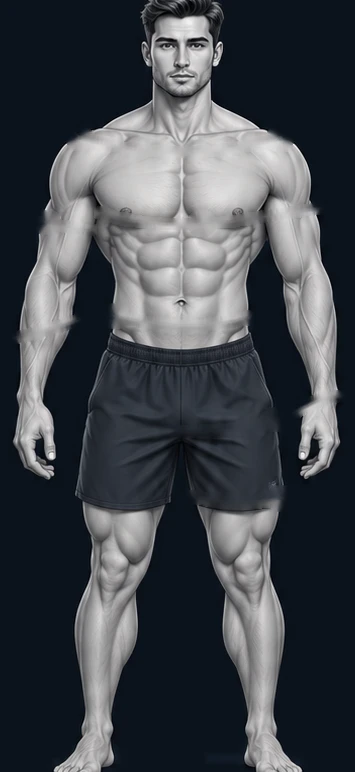
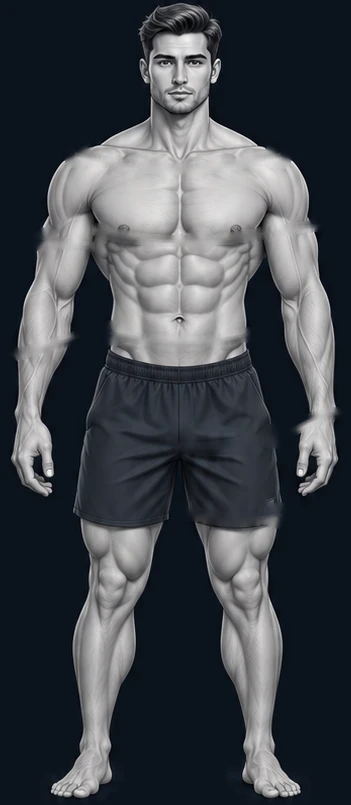
0.9.6: whole figures in the measurements block, scaled to the phone
- Figures recut from the reference screens head to feet (the previous crop clipped hair and feet)
- Figure height: up to 400 dp, smaller on narrow phones so both callout columns keep their width
- Tape positions recomputed for the new crops

Claude-Session: https://claude.ai/code/session_014pom2DdkZCLqE4n9czZg2V

diff --git a/app/src/main/java/com/fitclub/tracker/domain/BodyModel.kt b/app/src/main/java/com/fitclub/tracker/domain/BodyModel.kt
@@ -70,18 +70,19 @@ data class BodyFigure(val asset: String, val width: Float, val height: Float, va
             BodyFigure(asset, w, h, rows.map { (m, g) -> FigureBand(m, g.first, g.second, g.third, m in right) })
 
         private val MALE_RIGHT = setOf(BodyMetric.CHEST, BodyMetric.HIPS, BodyMetric.THIGH)
-        val MALE_LIGHT = figure("male_light", 358f, 810f, MALE_RIGHT,
-            BodyMetric.SHOULDERS to Triple(141f, 186f, 97f), BodyMetric.CHEST to Triple(231f, 181f, 80f), BodyMetric.ARM to Triple(234f, 75f, 18f),
-            BodyMetric.WAIST to Triple(326f, 182f, 67f), BodyMetric.HIPS to Triple(431f, 182f, 90f), BodyMetric.THIGH to Triple(506f, 230f, 41f))
-        val MALE_DARK = figure("male_dark", 355f, 772f, MALE_RIGHT,
-            BodyMetric.SHOULDERS to Triple(142f, 180f, 100f), BodyMetric.CHEST to Triple(220f, 181f, 80f), BodyMetric.ARM to Triple(225f, 70f, 20f),
-            BodyMetric.WAIST to Triple(318f, 183f, 67f), BodyMetric.HIPS to Triple(425f, 180f, 90f), BodyMetric.THIGH to Triple(498f, 236f, 44f))
-        val FEMALE_DARK = figure("female_dark", 304f, 778f, setOf(BodyMetric.CHEST, BodyMetric.WAIST, BodyMetric.THIGH),
-            BodyMetric.SHOULDERS to Triple(149f, 154f, 70f), BodyMetric.CHEST to Triple(219f, 157f, 55f), BodyMetric.ARM to Triple(236f, 70f, 16f),
-            BodyMetric.WAIST to Triple(315f, 151f, 50f), BodyMetric.HIPS to Triple(409f, 157f, 78f), BodyMetric.THIGH to Triple(473f, 198f, 33f))
-        val FEMALE_LIGHT = figure("female_light", 332f, 828f, setOf(BodyMetric.SHOULDERS, BodyMetric.ARM, BodyMetric.THIGH),
-            BodyMetric.SHOULDERS to Triple(168f, 166f, 68f), BodyMetric.CHEST to Triple(248f, 172f, 63f), BodyMetric.ARM to Triple(266f, 255f, 18f),
-            BodyMetric.WAIST to Triple(354f, 167f, 55f), BodyMetric.HIPS to Triple(446f, 167f, 85f), BodyMetric.THIGH to Triple(516f, 214f, 39f))
+        // Cut whole, from the top of the hair to the soles, so the full figure always fits its card.
+        val MALE_LIGHT = figure("male_light", 354f, 844f, MALE_RIGHT,
+            BodyMetric.SHOULDERS to Triple(158f, 184f, 97f), BodyMetric.CHEST to Triple(248f, 179f, 80f), BodyMetric.ARM to Triple(251f, 73f, 18f),
+            BodyMetric.WAIST to Triple(343f, 180f, 67f), BodyMetric.HIPS to Triple(448f, 180f, 90f), BodyMetric.THIGH to Triple(523f, 228f, 41f))
+        val MALE_DARK = figure("male_dark", 351f, 805f, MALE_RIGHT,
+            BodyMetric.SHOULDERS to Triple(159f, 178f, 100f), BodyMetric.CHEST to Triple(237f, 179f, 80f), BodyMetric.ARM to Triple(242f, 68f, 20f),
+            BodyMetric.WAIST to Triple(335f, 181f, 67f), BodyMetric.HIPS to Triple(442f, 178f, 90f), BodyMetric.THIGH to Triple(515f, 234f, 44f))
+        val FEMALE_DARK = figure("female_dark", 300f, 810f, setOf(BodyMetric.CHEST, BodyMetric.WAIST, BodyMetric.THIGH),
+            BodyMetric.SHOULDERS to Triple(167f, 152f, 70f), BodyMetric.CHEST to Triple(237f, 155f, 55f), BodyMetric.ARM to Triple(254f, 68f, 16f),
+            BodyMetric.WAIST to Triple(333f, 149f, 50f), BodyMetric.HIPS to Triple(427f, 155f, 78f), BodyMetric.THIGH to Triple(491f, 196f, 33f))
+        val FEMALE_LIGHT = figure("female_light", 328f, 861f, setOf(BodyMetric.SHOULDERS, BodyMetric.ARM, BodyMetric.THIGH),
+            BodyMetric.SHOULDERS to Triple(186f, 164f, 68f), BodyMetric.CHEST to Triple(266f, 170f, 63f), BodyMetric.ARM to Triple(284f, 253f, 18f),
+            BodyMetric.WAIST to Triple(372f, 165f, 55f), BodyMetric.HIPS to Triple(464f, 165f, 85f), BodyMetric.THIGH to Triple(534f, 212f, 39f))
 
         fun of(female: Boolean, dark: Boolean) = when {
             female && dark -> FEMALE_DARK
@@ -161,3 +162,10 @@ fun railTops(wanted: List<Float>, labelHeight: Float, limit: Float): List<Float>
 /** Snap a stepper value to its grid so 0.1 + 0.2 never shows as 0,30000001. */
 fun snapMeasure(metric: BodyMetric, v: Float): Float =
     ((v / metric.step).roundToInt() * metric.step * 10).roundToInt().div(10f).coerceIn(metric.minValue, metric.maxValue)
+
+/**
+ * Height of the figure in its card: the whole figure always fits, up to [maxHeight]; a narrow
+ * card scales it down so the callout columns of [labelWidth] on both sides keep their width.
+ */
+fun figureHeight(figure: BodyFigure, cardWidth: Float, labelWidth: Float = 86f, maxHeight: Float = 400f): Float =
+    minOf(maxHeight, ((cardWidth - 2 * labelWidth) / figure.aspect).coerceAtLeast(0f))

diff --git a/app/src/main/java/com/fitclub/tracker/ui/profile/BodyModelUi.kt b/app/src/main/java/com/fitclub/tracker/ui/profile/BodyModelUi.kt
@@ -109,7 +109,7 @@ private fun tapeColors(): BlockColors = blockColors()
 
 /** Background the figure was drawn on, so the picture blends into its card. */
 private fun figureBackground(figure: BodyFigure): Color = when (figure.asset) {
-    "female_dark" -> Color(0xFF0F1721)
+    "female_dark" -> Color(0xFF0F1821)
     "male_dark" -> Color(0xFF0B121B)
     else -> Color(0xFFFDFDFE)
 }
@@ -207,13 +207,13 @@ private fun FigureCard(figure: BodyFigure, colors: BlockColors, series: Map<Body
         Modifier.fillMaxWidth().clip(RoundedCornerShape(22.dp)).background(bg).border(1.dp, colors.line, RoundedCornerShape(22.dp))
     ) {
         val cardW = maxWidth
-        val imgH = min(372.dp, cardW * 1.04f)
+        val labelW = 80.dp
+        val imgH = figureHeight(figure, cardW.value, labelWidth = labelW.value + 6f).dp
         val imgW = imgH * figure.aspect
         val imgLeft = (cardW - imgW) / 2
-        val imgTop = 8.dp
-        val cardH = imgH + 16.dp
+        val imgTop = 10.dp
+        val cardH = imgH + 20.dp
         val scale = imgH.value / figure.height
-        val labelW = 82.dp
         val gap = 46f * fontScale
 
         val tops = remember(figure, imgH, fontScale) {

diff --git a/app/src/test/java/com/fitclub/tracker/domain/BodyModelTest.kt b/app/src/test/java/com/fitclub/tracker/domain/BodyModelTest.kt
@@ -52,6 +52,17 @@ class BodyModelTest {
         assertEquals(false, periodChange(BodyMetric.HIPS, listOf(97f, 98f))!!.good)
     }
 
+    @Test fun wholeFigureFitsTheCardOnEveryPhoneWidth() {
+        for (figure in BodyFigure.ALL) for (card in listOf(288f, 328f, 358f, 380f)) {
+            val h = figureHeight(figure, card)
+            assertTrue(h <= 400f)
+            // The figure plus both callout columns never exceed the card.
+            assertTrue("${figure.asset} @ $card", h * figure.aspect + 2 * 86f <= card + 0.01f)
+        }
+        assertEquals(400f, figureHeight(BodyFigure.MALE_LIGHT, 358f), 0.01f)
+        assertTrue(figureHeight(BodyFigure.MALE_DARK, 328f) < 400f)
+    }
+
     @Test fun zonesHaveTheReferenceColours() {
         assertEquals(BodyHue.BLUE, BodyMetric.SHOULDERS.hue)
         assertEquals(BodyHue.BLUE, BodyMetric.CHEST.hue)
